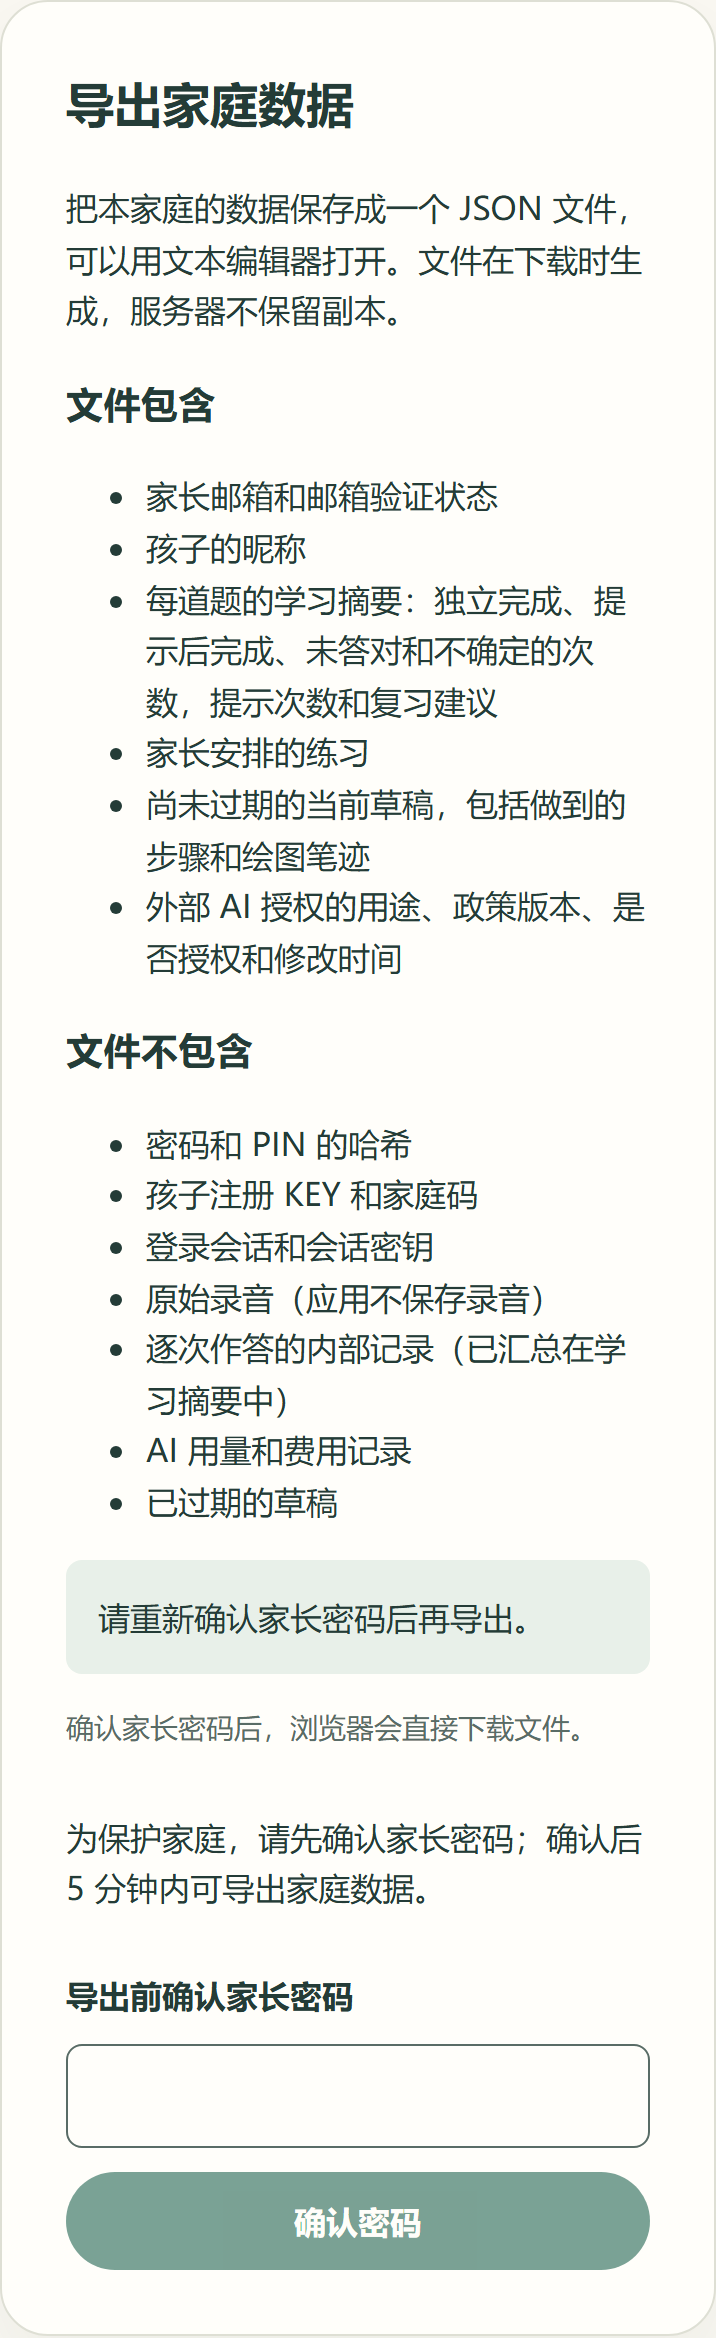
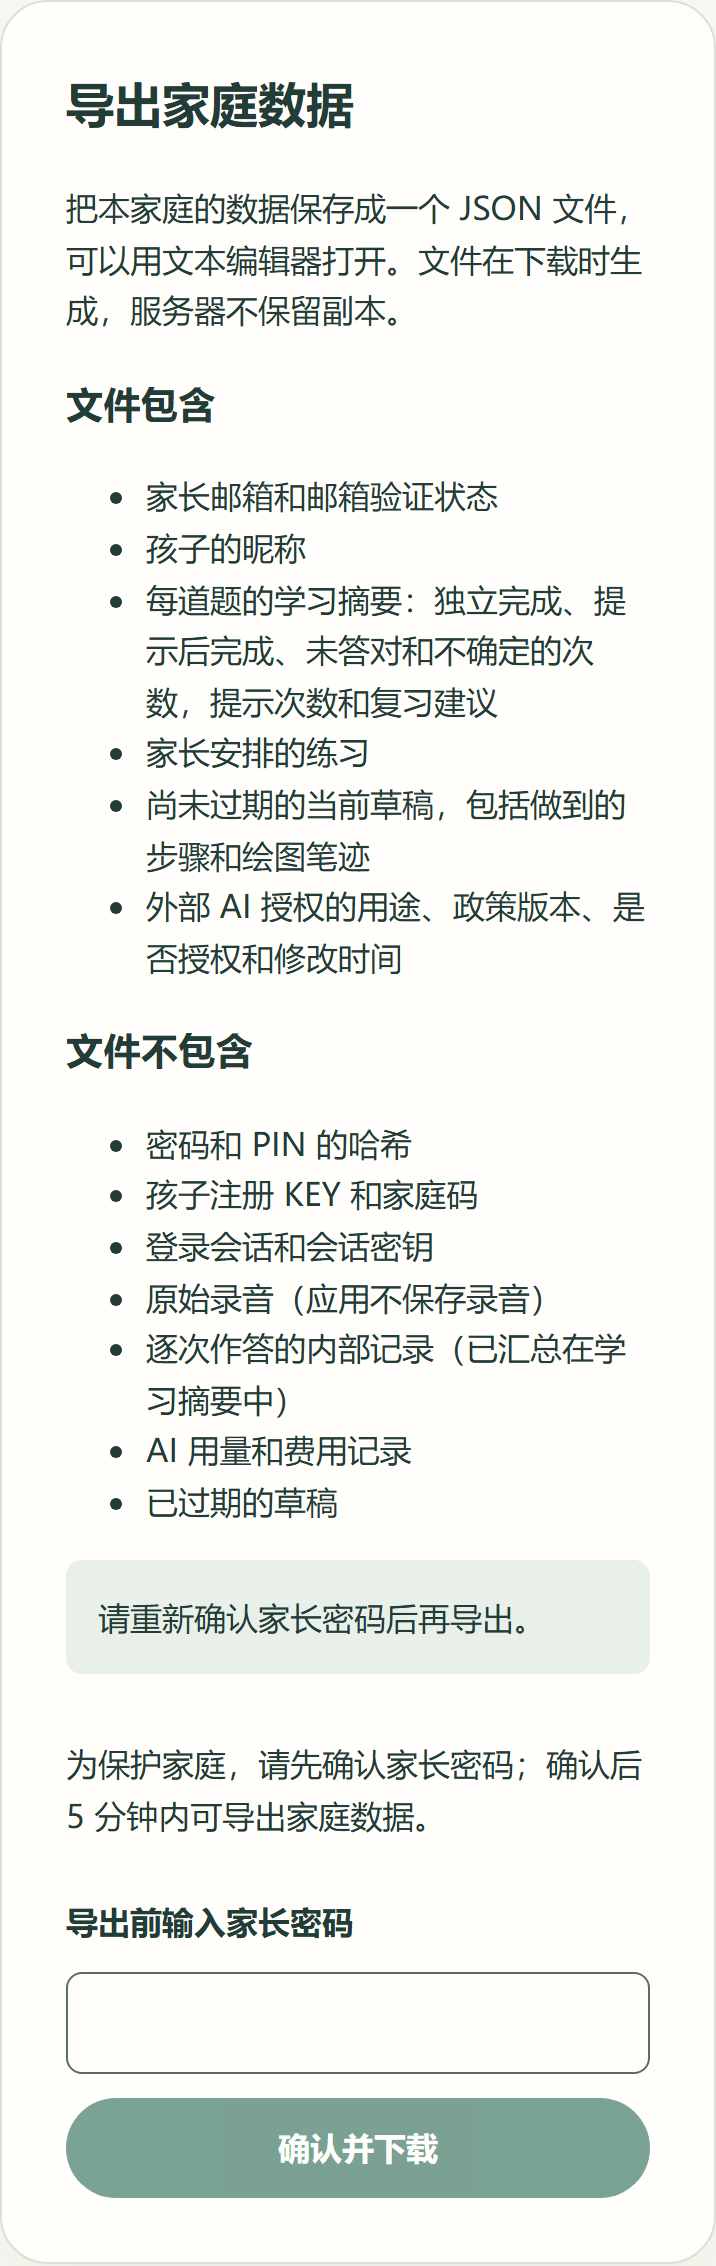
fix(web): name the export password field and button apart from other confirmations (#43)
The export card's password field read 导出前确认家长密码 and its button
确认密码, the same words the KEY panel uses, so a page with both showed two
fields and two buttons with overlapping names. The export field is now
导出前输入家长密码 and its button 确认并下载; the shared password form takes
the button text as an option. The evidence screenshots show the new names.

Claude-Session: https://claude.ai/code/session_0183GQ8DXoPP7D12R4z6fmQW

diff --git a/apps/web/src/features/family/pages/FamilyExportPanel.test.tsx b/apps/web/src/features/family/pages/FamilyExportPanel.test.tsx
@@ -26,6 +26,7 @@ const session = {
   access: 'verified',
   csrfToken: renewed,
 };
+const passwordLabel = '导出前输入家长密码';
 
 const create = vi.fn((_blob: Blob) => 'blob:family-data');
 let downloads: string[] = [];
@@ -64,8 +65,8 @@ function setup(reply: { password?: Response; file?: Response } = {}) {
 
 async function exportWithPassword() {
   const user = userEvent.setup();
-  await user.type(screen.getByLabelText('导出前确认家长密码'), 'parent-password');
-  await user.click(screen.getByRole('button', { name: '确认密码' }));
+  await user.type(screen.getByLabelText(passwordLabel), 'parent-password');
+  await user.click(screen.getByRole('button', { name: '确认并下载' }));
 }
 
 const csrfOf = (call: unknown[]) =>
@@ -76,6 +77,12 @@ it('explains what the file holds before the parent confirms anything', () => {
   expect(screen.getByRole('heading', { name: '文件包含' })).toBeVisible();
   expect(screen.getByText('密码和 PIN 的哈希')).toBeVisible();
   expect(screen.getByText(/JSON 文件/)).toBeVisible();
+});
+
+it('names its password field and button apart from the other password confirmations', () => {
+  setup();
+  expect(screen.queryByLabelText(/确认家长密码/)).toBeNull();
+  expect(screen.queryByRole('button', { name: '确认密码' })).toBeNull();
 });
 
 it('confirms the password, then downloads the export with the renewed session', async () => {
@@ -90,7 +97,7 @@ it('confirms the password, then downloads the export with the renewed session', 
   expect(csrfOf(fetcher.mock.calls[1]!)).toBe(renewed);
   expect(downloads).toEqual(['family-data-2026-11-07.json']);
   expect(await create.mock.calls[0]![0].text()).toBe(JSON.stringify(file));
-  expect(screen.getByLabelText('导出前确认家长密码')).toHaveValue('');
+  expect(screen.getByLabelText(passwordLabel)).toHaveValue('');
 });
 
 it('does not ask for the file when the password is wrong', async () => {

diff --git a/apps/web/src/features/family/components/FamilyExportCard.tsx b/apps/web/src/features/family/components/FamilyExportCard.tsx
@@ -13,6 +13,8 @@ type Props = {
   onExport: () => void;
 };
 
+// The password field and its button are named for the export, so they stay
+// distinct from the other password confirmations on the parent page.
 export function FamilyExportCard(props: Props) {
   return (
     <section className={`${card.card} ${panel.panel}`} aria-labelledby="family-export-title">
@@ -44,11 +46,11 @@ export function FamilyExportCard(props: Props) {
           {props.error}
         </p>
       )}
-      <p className={card.hint}>确认家长密码后，浏览器会直接下载文件。</p>
       <ParentPasswordForm
         id="export-parent-password"
-        label="导出前确认家长密码"
+        label="导出前输入家长密码"
         purpose="导出家庭数据"
+        submitLabel="确认并下载"
         password={props.password}
         pending={props.pending}
         onChange={props.onPassword}

diff --git a/apps/web/src/features/family/components/ParentPasswordForm.tsx b/apps/web/src/features/family/components/ParentPasswordForm.tsx
@@ -2,6 +2,7 @@ export function ParentPasswordForm({
   id = 'key-parent-password',
   label = '确认家长密码',
   purpose = '管理 KEY',
+  submitLabel = '确认密码',
   password,
   pending,
   onChange,
@@ -10,6 +11,7 @@ export function ParentPasswordForm({
   id?: string;
   label?: string;
   purpose?: string;
+  submitLabel?: string;
   password: string;
   pending?: boolean;
   onChange: (value: string) => void;
@@ -35,7 +37,7 @@ export function ParentPasswordForm({
         disabled={pending}
       />
       <button disabled={pending || !password} type="submit">
-        {pending ? '正在确认…' : '确认密码'}
+        {pending ? '正在确认…' : submitLabel}
       </button>
     </form>
   );
